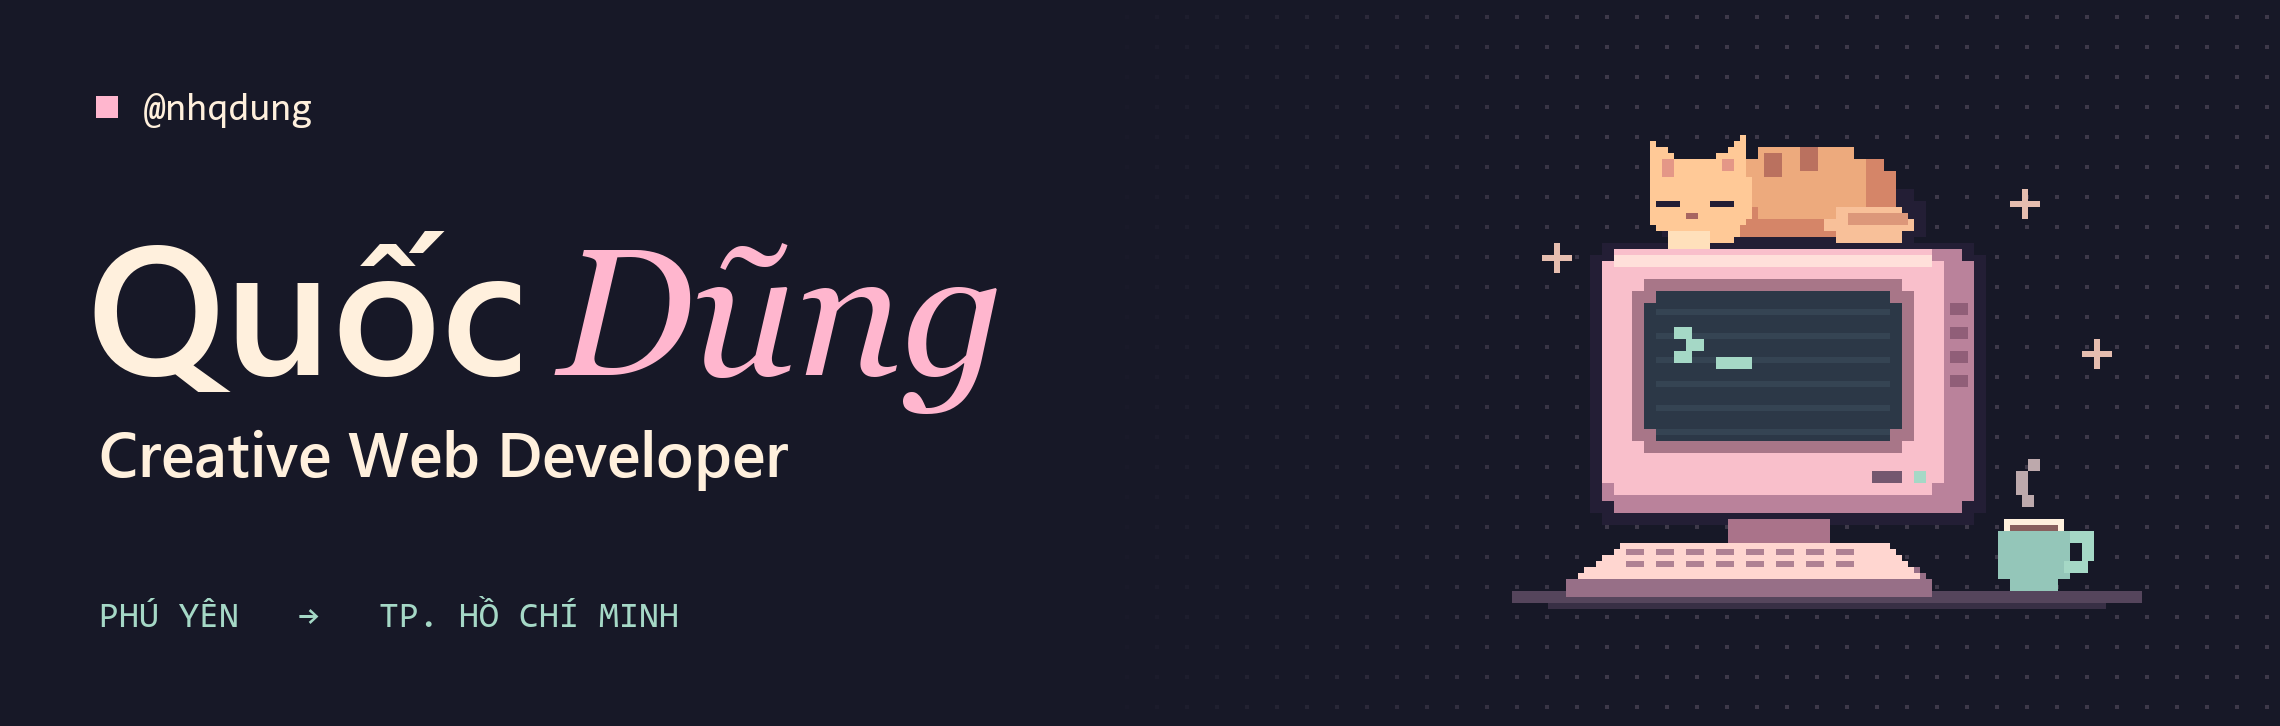
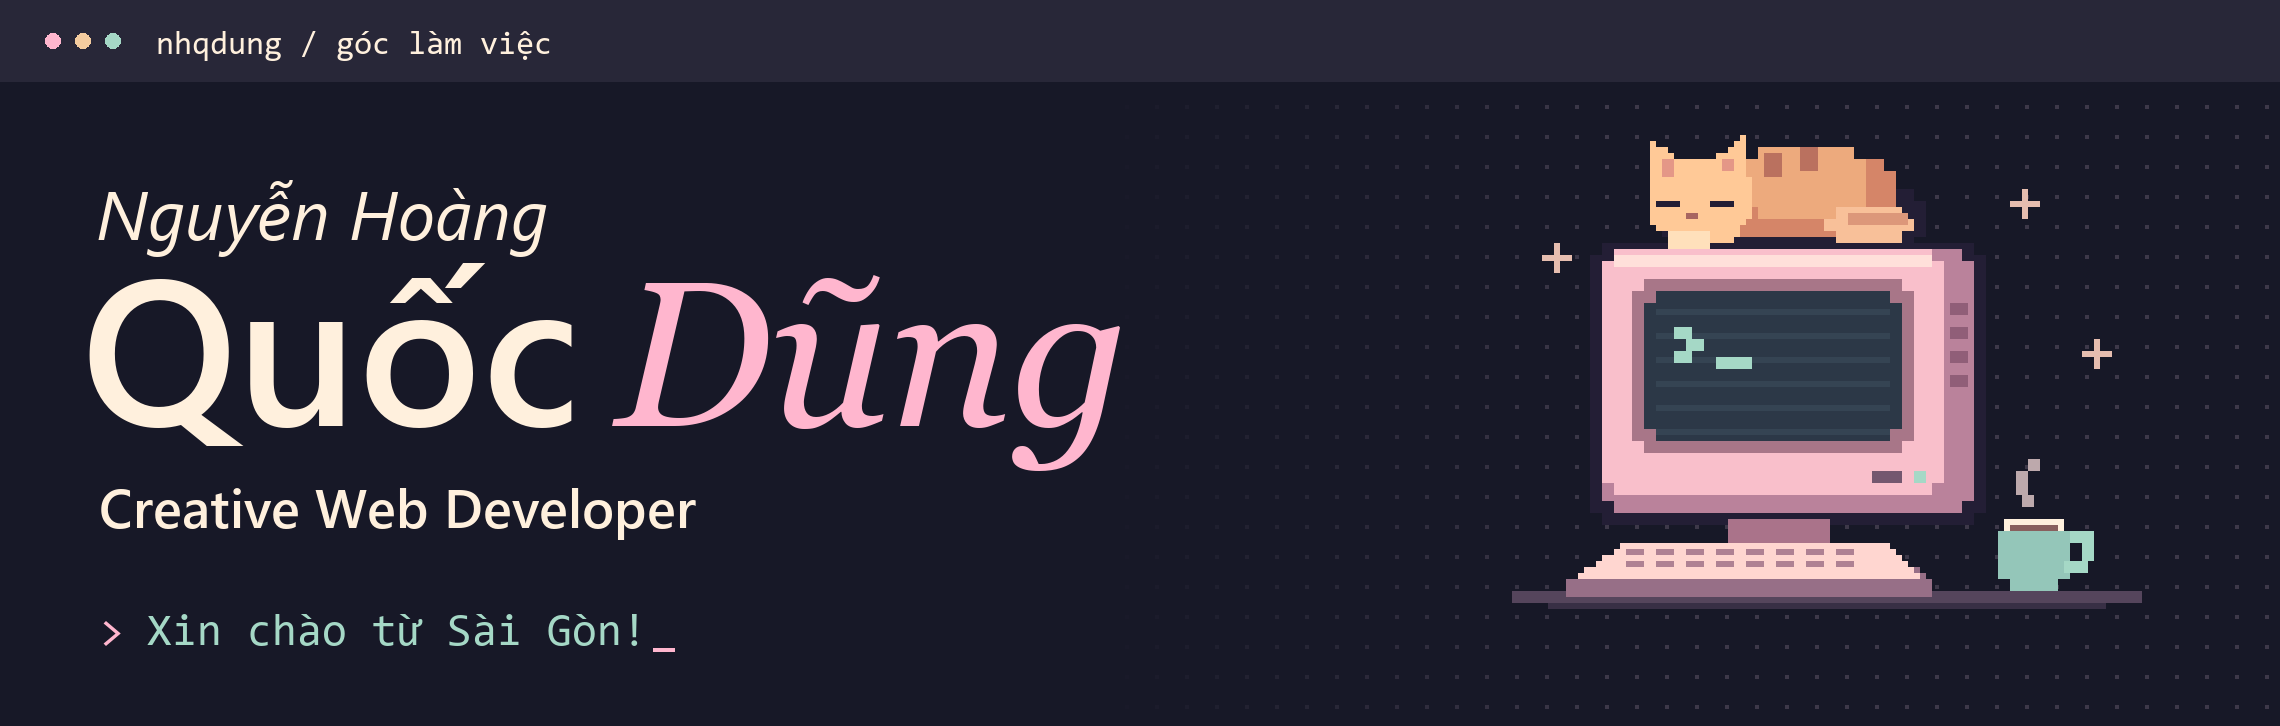
Redesign personal introduction with an animated greeting

diff --git a/README.md b/README.md
@@ -1,11 +1,23 @@
-[![Quốc Dũng · Creative Web Developer · Phú Yên → TP. Hồ Chí Minh](./profile-banner.png)](https://nhqd.vercel.app/)
+<a href="https://nhqd.vercel.app/">
+  <picture>
+    <source media="(prefers-reduced-motion: reduce)" srcset="./profile-banner.png">
+    <img src="./profile-banner.gif" width="100%" alt="Nguyễn Hoàng Quốc Dũng · Creative Web Developer · Xin chào từ Sài Gòn!">
+  </picture>
+</a>
 
-## Chào bạn, mình là Dũng.
+### Chào bạn, cứ gọi mình là Dũng.
 
-Mình là **Nguyễn Hoàng Quốc Dũng**, sinh viên Công nghệ thông tin quê Phú Yên, hiện sống ở TP. Hồ Chí Minh. Mình mê làm giao diện web, nhất là lúc chỉnh một nút bấm hay canh một chuyển cảnh cho thật vừa mắt.
+Mình quê **Phú Yên**, hiện sống và học Công nghệ thông tin ở **TP. Hồ Chí Minh**. Khi làm web, mình hay dừng lại ở những chi tiết bé xíu: một nút bấm khẽ nảy lên, hay một chiếc sticker nằm ở góc màn hình. Đó là phần mình thích nhất khi viết frontend.
 
-Ngoài giờ code, mình thích cà phê sữa, nhạc lofi và sưu tầm sticker. Mấy hình dán dễ thương ấy thỉnh thoảng lại cho mình ý tưởng để vẽ giao diện.
+**Trên bàn làm việc** &nbsp; <code>React</code> <code>Next.js</code> <code>TypeScript</code> <code>Tailwind CSS</code>
 
-**Góc frontend của mình** · React · Next.js · TypeScript · Tailwind CSS
+<details>
+<summary><strong>Ngoài giờ code, Dũng thích gì?</strong></summary>
 
-[Ghé trang cá nhân ↗](https://nhqd.vercel.app/) · [Kết nối qua Facebook ↗](https://facebook.com/dgx14th6)
+Một ly cà phê sữa, một playlist lofi, vài chiếc sticker mới. Mình cũng mê mèo và game FPS. Bạn đã gặp chú mèo đang ngủ trên màn hình ở đầu trang rồi đấy!
+
+</details>
+
+---
+
+<p align="center"><a href="https://nhqd.vercel.app/"><strong>Ghé trang cá nhân ↗</strong></a> &nbsp; · &nbsp; <a href="https://facebook.com/dgx14th6">Facebook</a> &nbsp; · &nbsp; <a href="https://www.tiktok.com/@_.qocdug146._">TikTok</a></p>
